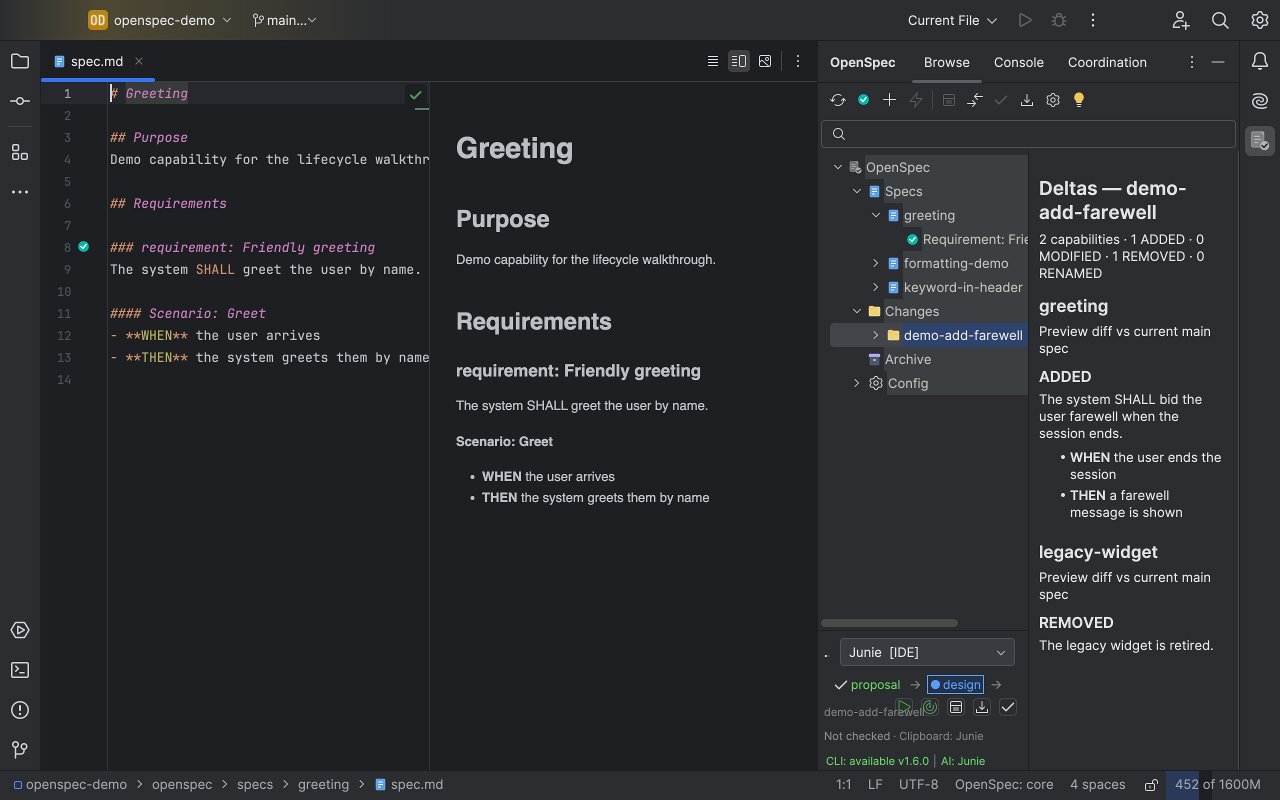
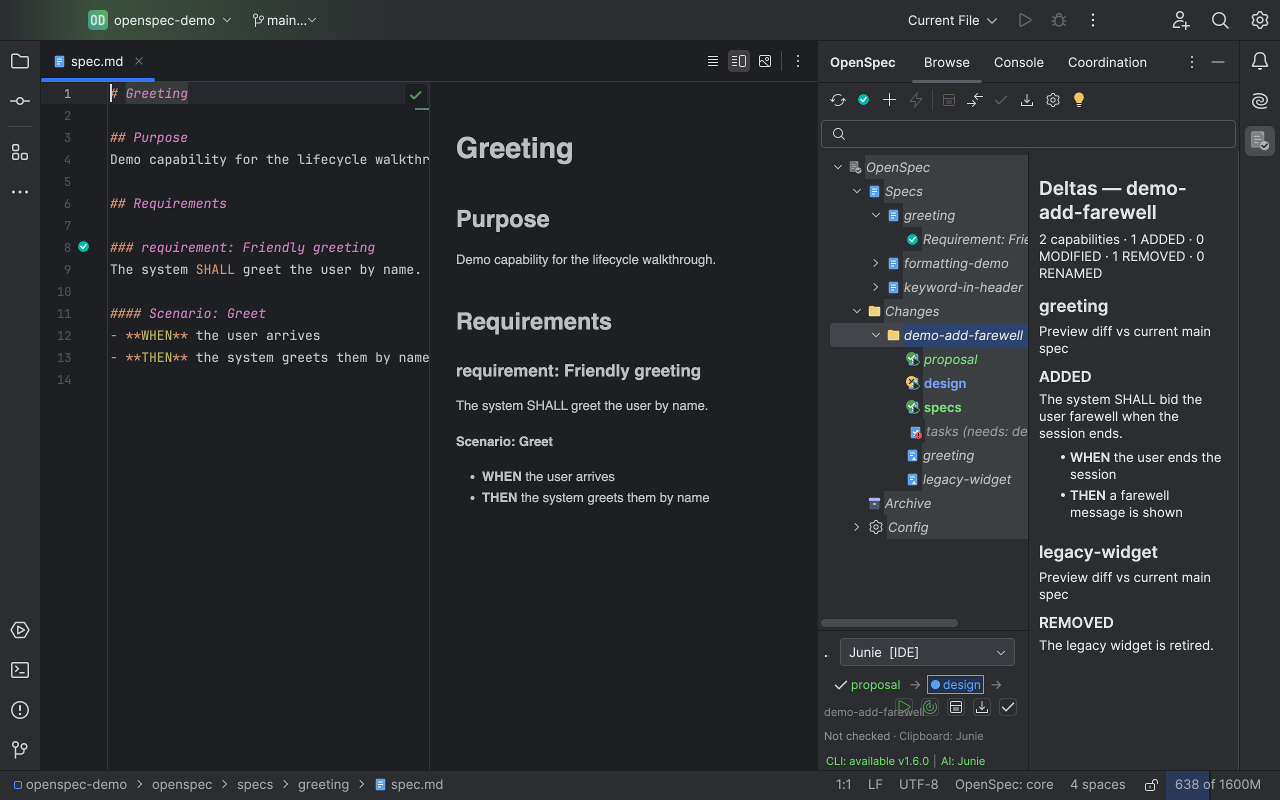
fix(screenshots): shot 09 (tree badges) was a visual duplicate of 08
The change node never expanded (async populate race) and the hasText("proposal")
guard false-passed on the bottom pipeline panel's proposal chip, so shot 09
re-captured the collapsed deltas view instead of the badged artifact nodes. Force
the model-level expand to the specs child and verify via the tree path. Shot 09
now shows proposal/design/specs/tasks with their status-badge overlays.

diff --git a/src/integrationTest/kotlin/com/johnnyblabs/openspec/uismoke/MarketplaceScreenshotTour.kt b/src/integrationTest/kotlin/com/johnnyblabs/openspec/uismoke/MarketplaceScreenshotTour.kt
@@ -348,9 +348,14 @@ class MarketplaceScreenshotTour {
             // The visual IS the badged tree, so the shot just needs the artifacts expanded.
             ideFrame {
                 val browseTree = tree("//div[@class='Tree']")
-                browseTree.expandPath("OpenSpec", "Changes", "demo-add-farewell", fullMatch = false)
-                waitUntil("the change's artifact nodes render (badged) under the change node") {
-                    hasText("proposal")
+                // Shot 08 left the change node selected but COLLAPSED. Force it open (retry the async
+                // populate race) and verify via the tree PATH — the old hasText("proposal") guard
+                // false-passed on the bottom pipeline panel's "proposal" chip, snapping the collapsed
+                // tree (a visual duplicate of 08). Expanding to the "specs" child forces the change
+                // node open so its badged artifact nodes are actually visible.
+                waitUntil("the change node expands to reveal its badged artifact nodes") {
+                    browseTree.expandPath("OpenSpec", "Changes", "demo-add-farewell", "specs", fullMatch = false)
+                    true
                 }
             }
             snap("09-tree-badges")
